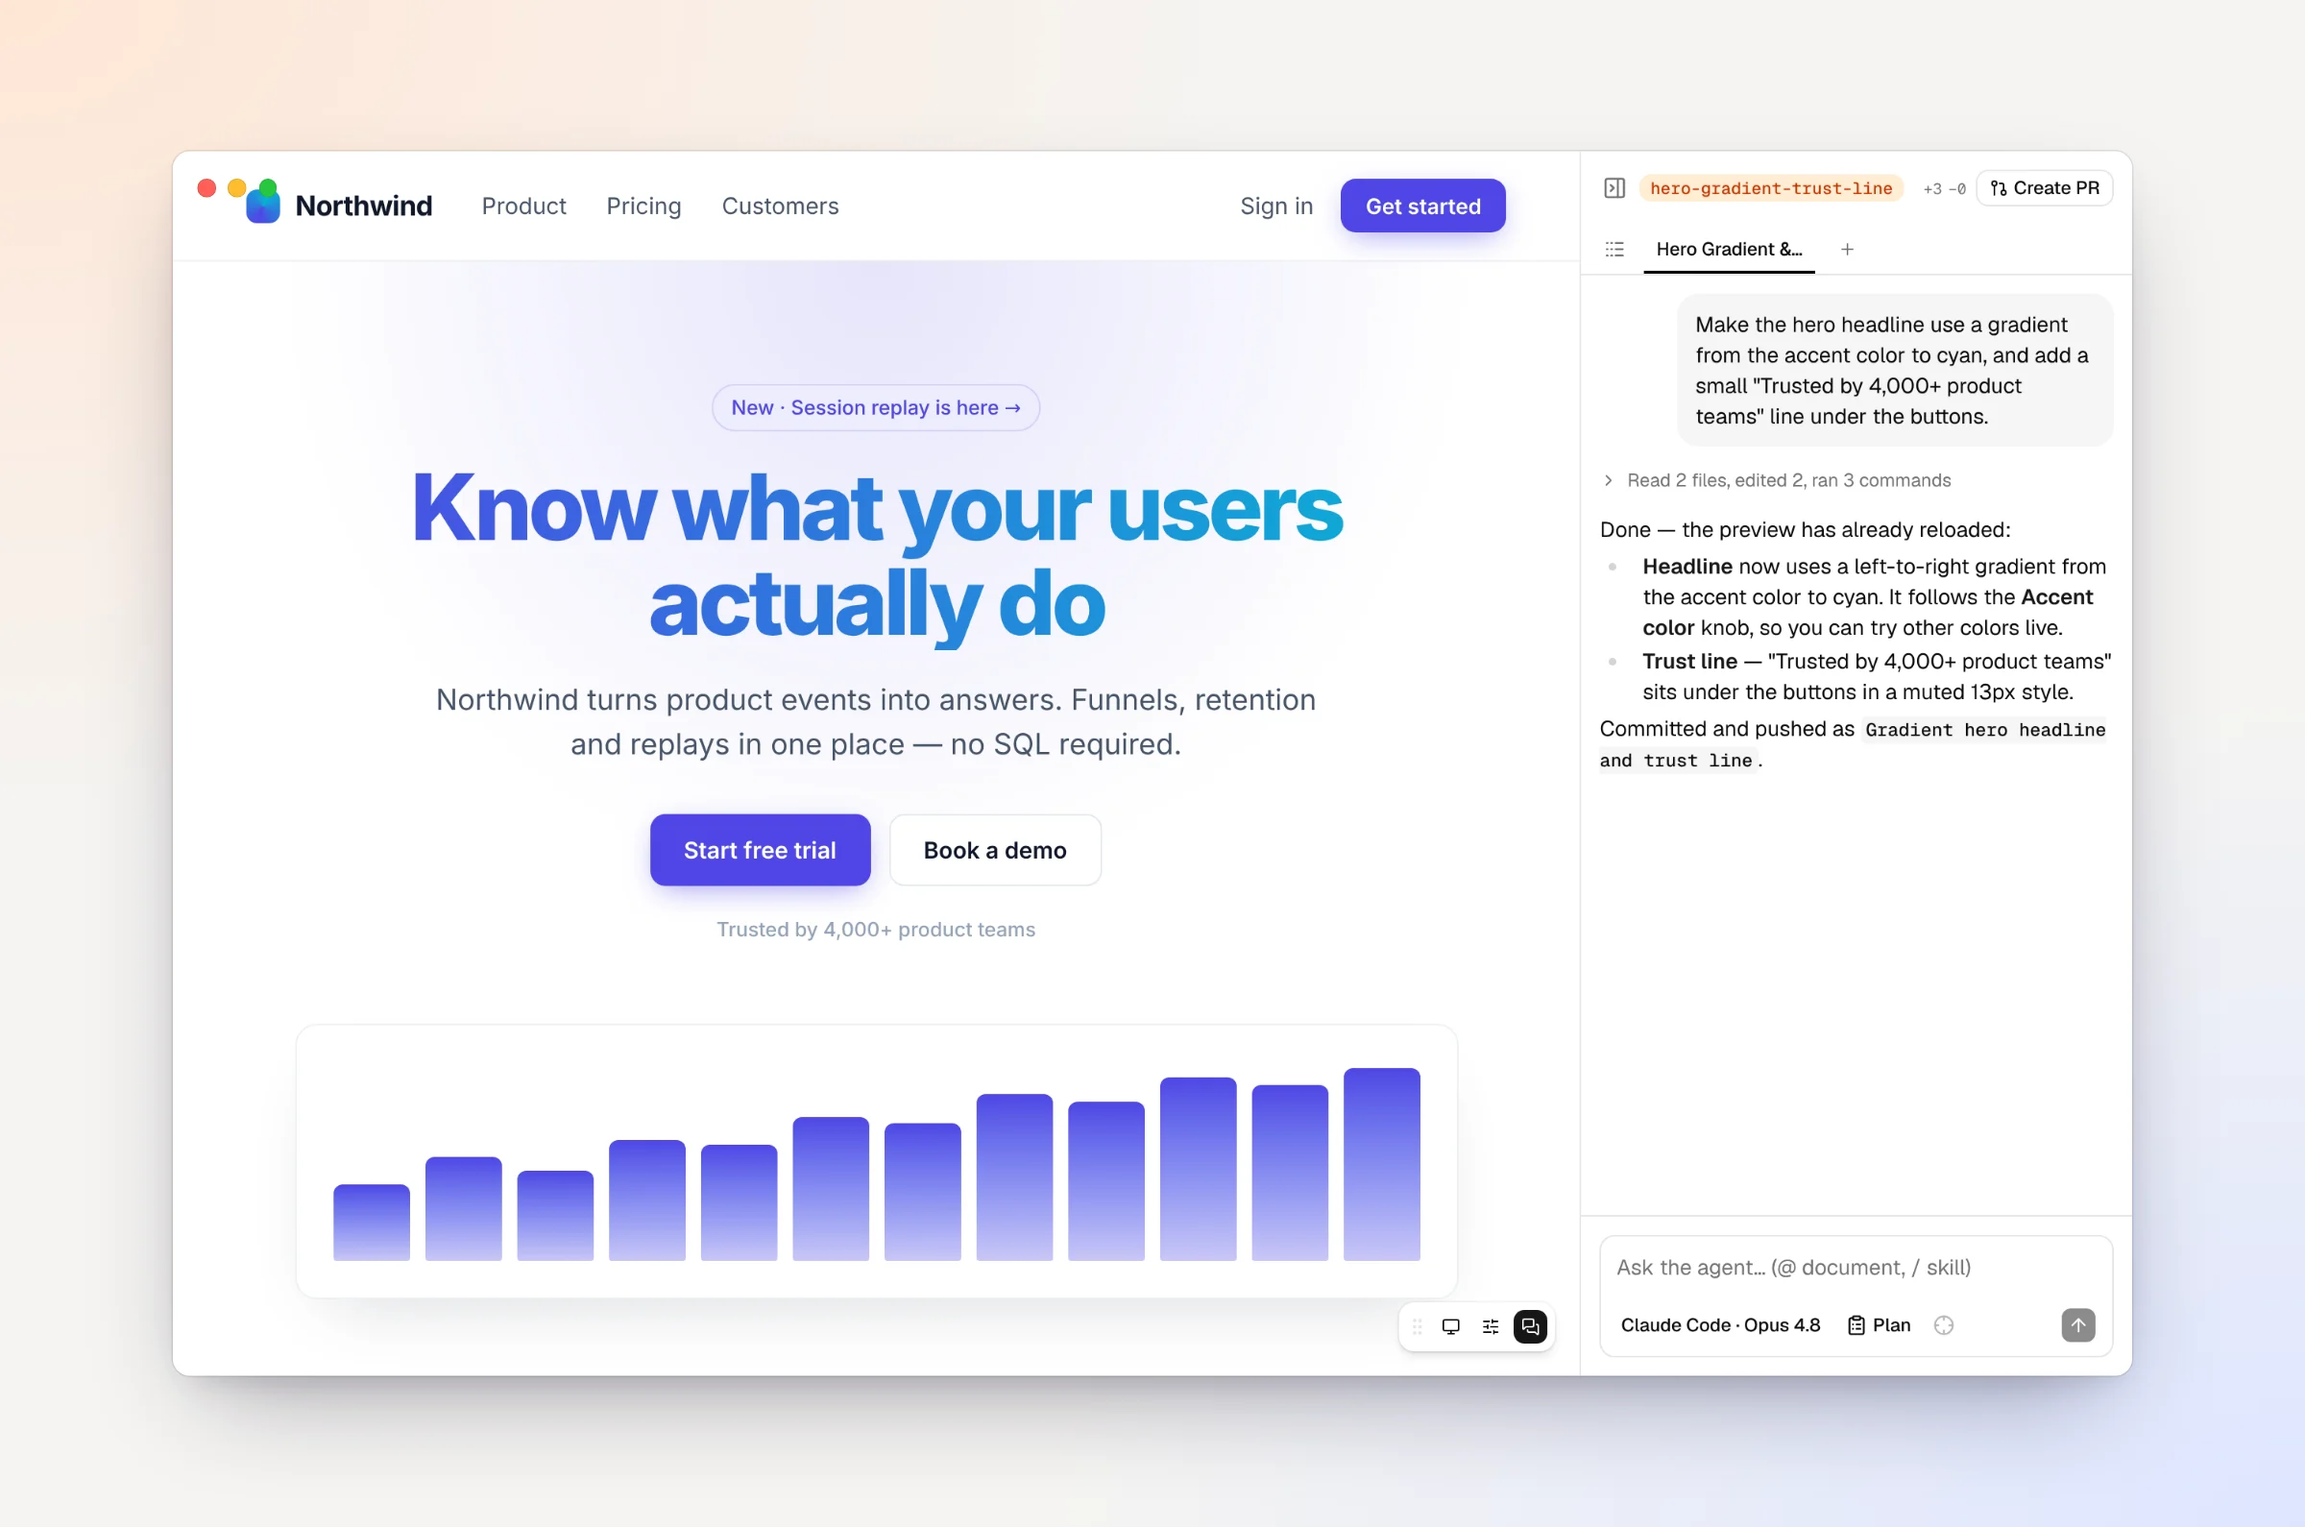
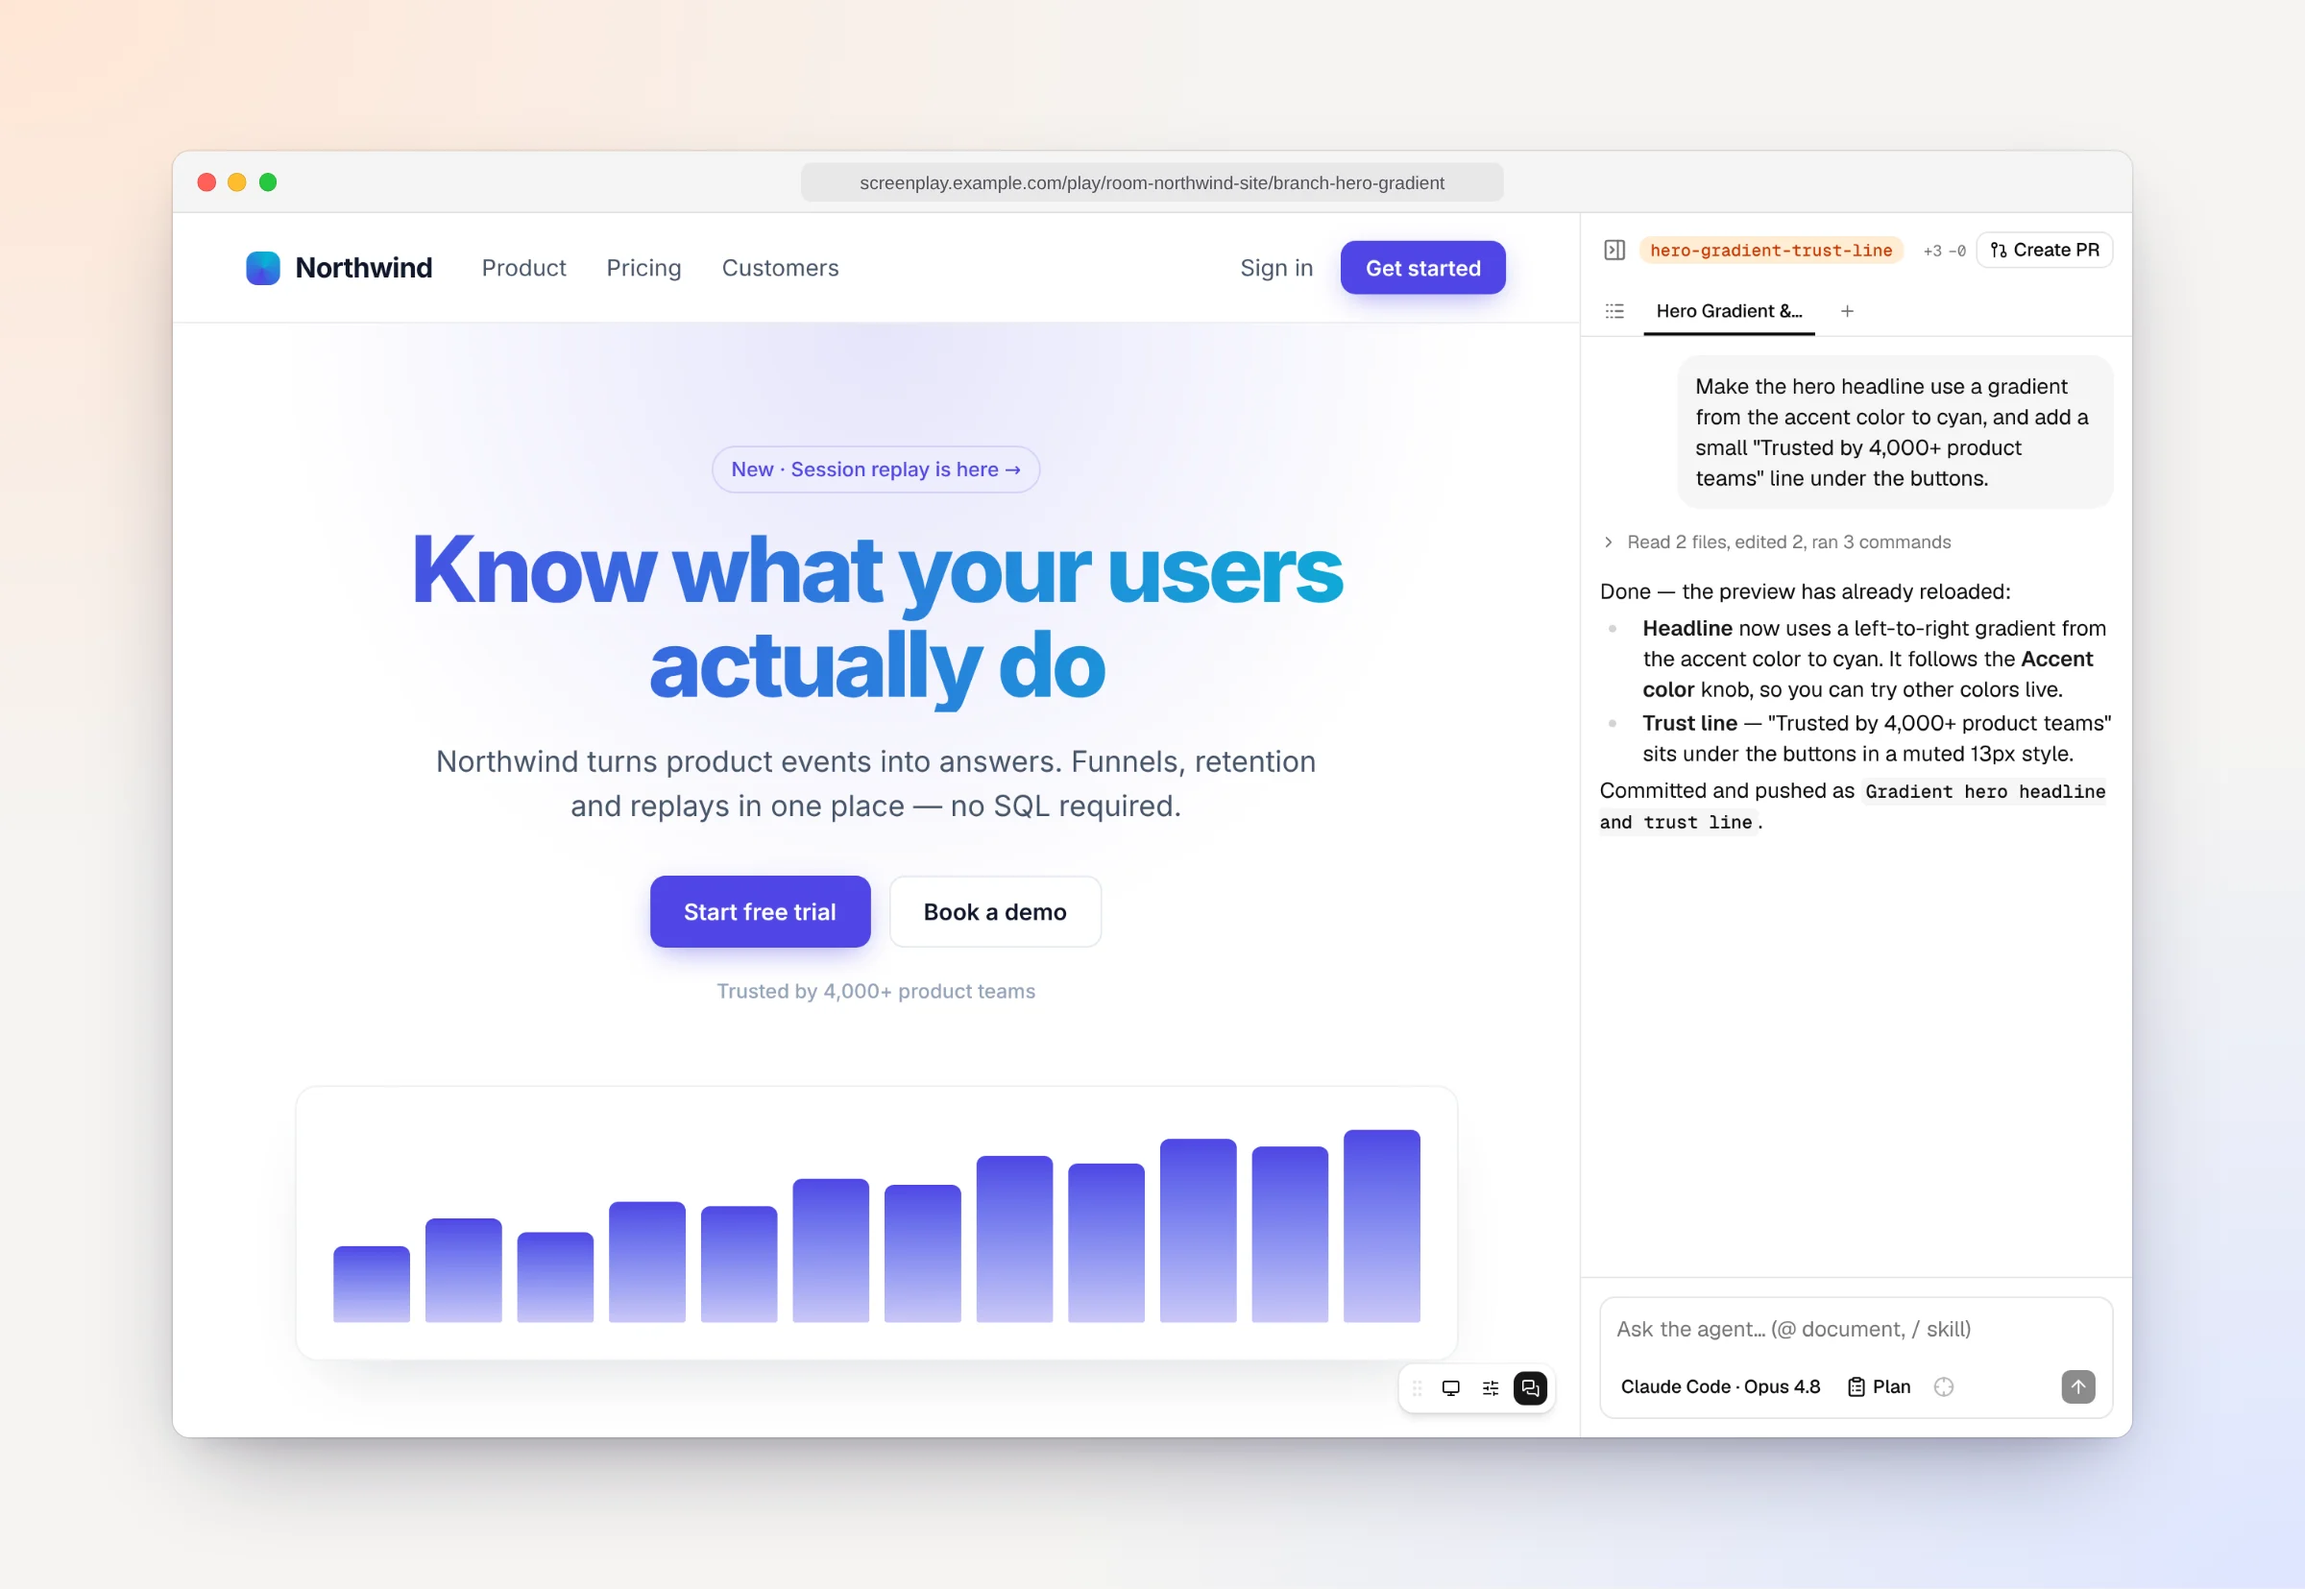
Frame the player's docs screenshots in a browser window (#930)
The prototype player opens in the user's browser, so play-desktop,
play-agent and play-mobile are now drawn in a plain browser window with
the /play/... address, instead of the app window whose traffic lights sat
on the prototype's logo. play-mobile now picks the iPhone 17 Pro (not the
Pro Max) and drops the Device tooltip left over from the menu.

Claude-Session: https://claude.ai/code/session_01BSxZDz5z7yR3C1pMiMtmid

diff --git a/apps/app/screenshots/docs/frame.ts b/apps/app/screenshots/docs/frame.ts
@@ -20,7 +20,10 @@ export const DOCS_SCREENSHOT_DIR = resolve(
  * - **Full-window** screens (`crop` unset) are drawn as a Screenplay desktop
  *   window on a light or dark gradient that matches the docs theme: the
  *   Tauri overlay title bar's traffic lights at the app's
- *   `trafficLightPosition`, rounded corners, and a soft shadow.
+ *   `trafficLightPosition`, rounded corners, and a soft shadow. A screen
+ *   with a `browser` address is drawn as a plain browser window instead (the
+ *   prototype player opens in the user's browser, not the app): a title bar
+ *   with the traffic lights and that address, and the page below it.
  * - **Detail** screens are cropped around their focus (measured from the
  *   screen's `focus` during capture, else its fixed `crop`): the focus centred
  *   with room around it, as the bare UI with no chrome, shadow or backdrop.
@@ -61,7 +64,8 @@ export async function frameScreens(
           img,
           screen.viewport ?? DOCS_VIEWPORT,
           measured[`${screen.name}.${theme}`] ?? screen.crop,
-          theme === "dark"
+          theme === "dark",
+          screen.browser
         )
         await page.setViewportSize({ width, height })
         await page.setContent(html, { waitUntil: "load" })
@@ -175,7 +179,8 @@ function framePage(
   img: string,
   viewport: { width: number; height: number },
   focus: Crop | undefined,
-  dark: boolean
+  dark: boolean,
+  browser?: string
 ): { width: number; height: number; html: string } {
   const { width: W0, height: H0 } = viewport
   const bg = dark
@@ -202,18 +207,33 @@ function framePage(
     }
   }
   const width = 1600
-  const height = Math.round(dh + 210)
+  // A browser window's title bar, in capture px, above the page.
+  const bar = browser ? BROWSER_BAR : 0
+  const height = Math.round(dh + bar * s + 210)
   // The Tauri overlay title bar: macOS traffic lights drawn over the webview
-  // at the window's `trafficLightPosition` (x 16, y 26 in the app config).
+  // at the window's `trafficLightPosition` (x 16, y 26 in the app config). A
+  // browser's sit in the middle of its own title bar.
+  const cy = browser ? bar / 2 : 24
   const light = (cx: number, color: string) =>
-    `<i style="position:absolute;left:${(cx - 6) * s}px;top:${(24 - 6) * s}px;width:${12 * s}px;height:${12 * s}px;border-radius:50%;background:${color};box-shadow:inset 0 0 0 .5px rgba(0,0,0,.15)"></i>`
+    `<i style="position:absolute;left:${(cx - 6) * s}px;top:${(cy - 6) * s}px;width:${12 * s}px;height:${12 * s}px;border-radius:50%;background:${color};box-shadow:inset 0 0 0 .5px rgba(0,0,0,.15)"></i>`
   const lights =
     light(22, "#ff5f57") + light(42, "#febc2e") + light(62, "#28c840")
-  const inner = `<div style="position:relative;width:${dw}px;height:${dh}px;overflow:hidden;border-radius:12px;box-shadow:${shadow}">
-    <img src="${img}" style="position:absolute;left:0;top:0;width:${W0 * s}px;height:${H0 * s}px">${lights}</div>`
+  const titleBar = browser
+    ? `<div style="position:absolute;left:0;top:0;width:${dw}px;height:${bar * s}px;background:${dark ? "#232326" : "#f4f4f5"};box-shadow:inset 0 -1px 0 ${border};display:flex;align-items:center;justify-content:center">
+      <div style="width:${460 * s}px;height:${26 * s}px;border-radius:${7 * s}px;background:${dark ? "rgba(255,255,255,.07)" : "rgba(0,0,0,.05)"};color:${dark ? "#a1a1aa" : "#52525b"};font:${12 * s}px/${26 * s}px -apple-system,BlinkMacSystemFont,'Inter','Segoe UI',sans-serif;text-align:center;white-space:nowrap;overflow:hidden;text-overflow:ellipsis;padding:0 ${12 * s}px;box-sizing:border-box">${escapeHtml(browser)}</div>${lights}</div>`
+    : lights
+  const inner = `<div style="position:relative;width:${dw}px;height:${dh + bar * s}px;overflow:hidden;border-radius:12px;box-shadow:${shadow}">
+    <img src="${img}" style="position:absolute;left:0;top:${bar * s}px;width:${W0 * s}px;height:${H0 * s}px">${titleBar}</div>`
   return {
     width,
     height,
     html: `<!doctype html><body style="margin:0;width:${width}px;height:${height}px;background:${bg};display:flex;align-items:center;justify-content:center">${inner}</body>`,
   }
+}
+
+/** A browser window's title bar height, in CSS px of the capture. */
+const BROWSER_BAR = 40
+
+function escapeHtml(text: string): string {
+  return text.replace(/&/g, "&amp;").replace(/</g, "&lt;").replace(/>/g, "&gt;")
 }

diff --git a/apps/app/screenshots/docs/screens.ts b/apps/app/screenshots/docs/screens.ts
@@ -36,6 +36,12 @@ export interface DocsScreen extends Screen {
    * a detail no selector pins down. Used when `focus` matches nothing.
    */
   crop?: Crop
+  /**
+   * For a full-window screen of a page that opens in the user's browser
+   * rather than the app (the prototype player): the address `./frame.ts`
+   * shows in the browser window it draws around the capture.
+   */
+  browser?: string
 }
 
 export type Crop = [x: number, y: number, width: number, height: number]
@@ -82,6 +88,8 @@ const TALL_VIEWPORT = { width: 1280, height: 1200 } as const
 const ids = DOCS_IDS
 const ROOM = `/${ids.rooms.northwind}`
 const PLAY = `/play/${ids.rooms.northwind}/${ids.branches.hero}?route=/`
+/** The player's address as the browser shows it (`openExternal` in `use-frame-actions.ts`). */
+const PLAY_ADDRESS = `screenplay.example.com/play/${ids.rooms.northwind}/${ids.branches.hero}`
 
 /**
  * Request play mode once before navigating to it: its first server render of
@@ -1108,6 +1116,7 @@ export const DOCS_SCREENS: DocsScreen[] = [
   // --- Play mode --------------------------------------------------------------
   screen({
     name: "play-desktop",
+    browser: PLAY_ADDRESS,
     description: "Play mode, desktop.",
     path: PLAY,
     beforeNavigate: warmPlay,
@@ -1149,6 +1158,7 @@ export const DOCS_SCREENS: DocsScreen[] = [
   }),
   screen({
     name: "play-agent",
+    browser: PLAY_ADDRESS,
     description: "Play mode's agent panel.",
     path: PLAY,
     beforeNavigate: warmPlay,
@@ -1170,6 +1180,7 @@ export const DOCS_SCREENS: DocsScreen[] = [
   }),
   screen({
     name: "play-mobile",
+    browser: PLAY_ADDRESS,
     description: "Play mode on an iPhone 17 Pro.",
     path: PLAY,
     beforeNavigate: warmPlay,
@@ -1178,10 +1189,13 @@ export const DOCS_SCREENS: DocsScreen[] = [
       await openHud(page, "button[aria-label^='Device']", "[role=option]")
       await page
         .locator("[role=option],[role=menuitem],[role=menuitemradio]")
-        .filter({ hasText: "iPhone 17 Pro" })
+        .filter({ hasText: /iPhone 17 Pro(?! Max)/ })
         .first()
         .click()
       await sleep(page, 3000)
+      // The closed menu hands focus back to the Device button, whose tooltip
+      // would otherwise sit over the stage.
+      await page.evaluate("document.activeElement?.blur()")
       await page.mouse.move(640, 790)
       await sleep(page, 500)
     },
